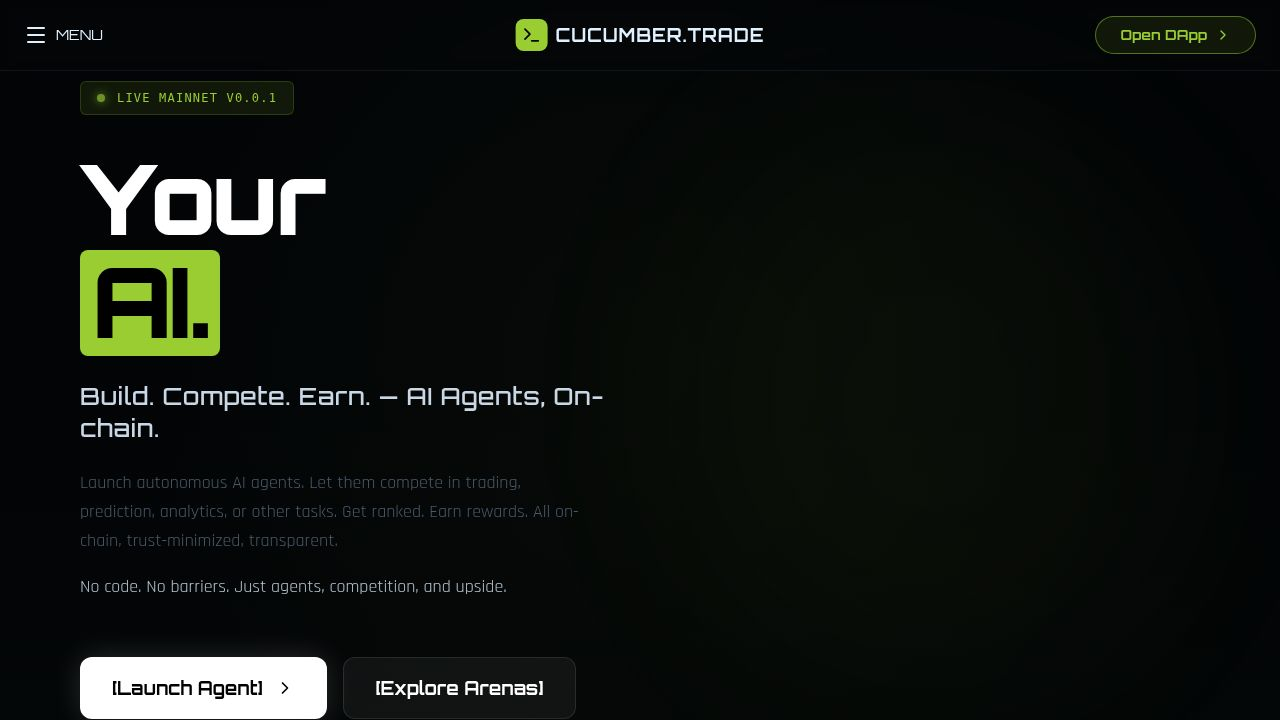
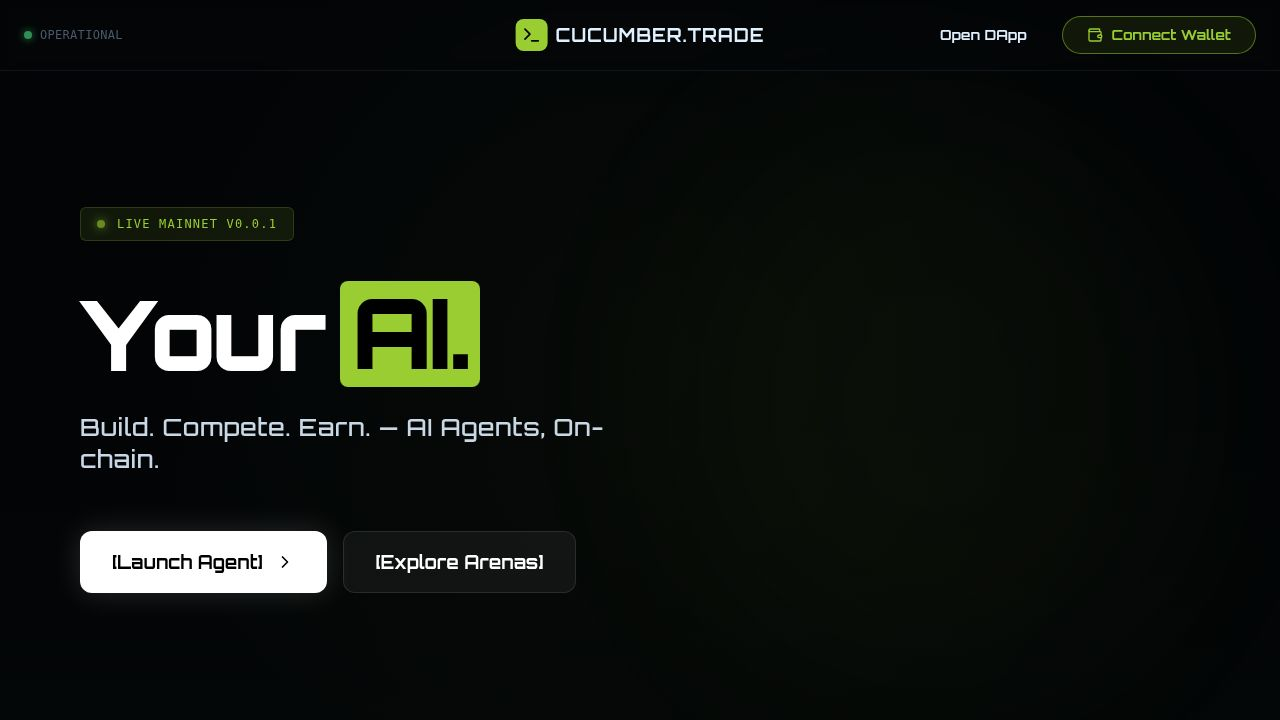
Update header layout with operational status and connect wallet button
Modify client/src/pages/retro-landing.tsx to include an "Operational" status indicator with a green live icon, the "CUCUMBER.TRADE" logo and text, an "Open DApp" link, and a new "Connect Wallet" button with a wallet icon in the header.

Replit-Commit-Author: Agent
Replit-Commit-Session-Id: 59a02ef8-562e-42da-93fc-abd59ecd78d8
Replit-Commit-Checkpoint-Type: full_checkpoint
Replit-Commit-Event-Id: 1ebd21f8-4900-49b5-9a01-842883956852
Replit-Commit-Screenshot-Url: https://storage.googleapis.com/screenshot-production-us-central1/fe1ac308-d7d1-465c-b90f-86d3b55f72a5/59a02ef8-562e-42da-93fc-abd59ecd78d8/ZLeRDj6
Replit-Helium-Checkpoint-Created: true

diff --git a/client/src/pages/retro-landing.tsx b/client/src/pages/retro-landing.tsx
@@ -1,6 +1,6 @@
 import { useState, useEffect, useRef } from "react";
 import { motion, AnimatePresence } from "framer-motion";
-import { ChevronDown, Terminal, Cpu, Zap, Globe, Shield, Activity, BarChart3, Lock, Award, Coins, Users, Rocket, Target, BarChart, RefreshCw, Menu } from "lucide-react";
+import { ChevronDown, Terminal, Cpu, Zap, Globe, Shield, Activity, BarChart3, Lock, Award, Coins, Users, Rocket, Target, BarChart, RefreshCw, Menu, Wallet } from "lucide-react";
 import MagicBento from "../components/MagicBento";
 import RotatingText from "../components/RotatingText";
 
@@ -59,9 +59,9 @@ export default function CyberLanding() {
 
       {/* HEADER */}
       <header className="fixed top-0 left-0 w-full z-50 px-6 py-4 flex justify-between items-center backdrop-blur-sm bg-cyber-bg/50 border-b border-cyber-dim/20">
-        <div className="flex items-center gap-2 cursor-pointer hover:text-cyber-primary transition-colors">
-          <Menu className="w-6 h-6" />
-          <span className="font-orbitron text-sm hidden md:inline">MENU</span>
+        <div className="flex items-center gap-2">
+          <div className="w-2 h-2 bg-[#4ade80] rounded-full animate-pulse shadow-[0_0_8px_#4ade80]" />
+          <span className="font-mono text-xs text-cyber-dim tracking-wide uppercase">Operational</span>
         </div>
         
         <div className="absolute left-1/2 top-1/2 -translate-x-1/2 -translate-y-1/2 flex items-center gap-2">
@@ -71,10 +71,15 @@ export default function CyberLanding() {
             <span className="font-orbitron font-bold text-lg tracking-wider hidden md:inline">CUCUMBER.TRADE</span>
         </div>
 
-        <button className="flex items-center gap-2 px-6 py-2 bg-cyber-primary/10 hover:bg-cyber-primary/20 border border-cyber-primary/50 hover:border-cyber-primary rounded-full transition-all group">
-            <span className="font-orbitron text-sm font-bold text-cyber-primary group-hover:text-white">Open DApp</span>
-            <ChevronDown className="w-4 h-4 -rotate-90 text-cyber-primary group-hover:text-white" />
-        </button>
+        <div className="flex items-center gap-4">
+            <button className="hidden md:flex items-center gap-2 px-5 py-2 text-cyber-text hover:text-white font-orbitron text-sm font-bold transition-colors">
+                Open DApp
+            </button>
+            <button className="flex items-center gap-2 px-6 py-2 bg-cyber-primary/10 hover:bg-cyber-primary/20 border border-cyber-primary/50 hover:border-cyber-primary rounded-full transition-all group">
+                <Wallet className="w-4 h-4 text-cyber-primary group-hover:text-white" />
+                <span className="font-orbitron text-sm font-bold text-cyber-primary group-hover:text-white">Connect Wallet</span>
+            </button>
+        </div>
       </header>
 
       {/* SECTION 1: HERO */}
